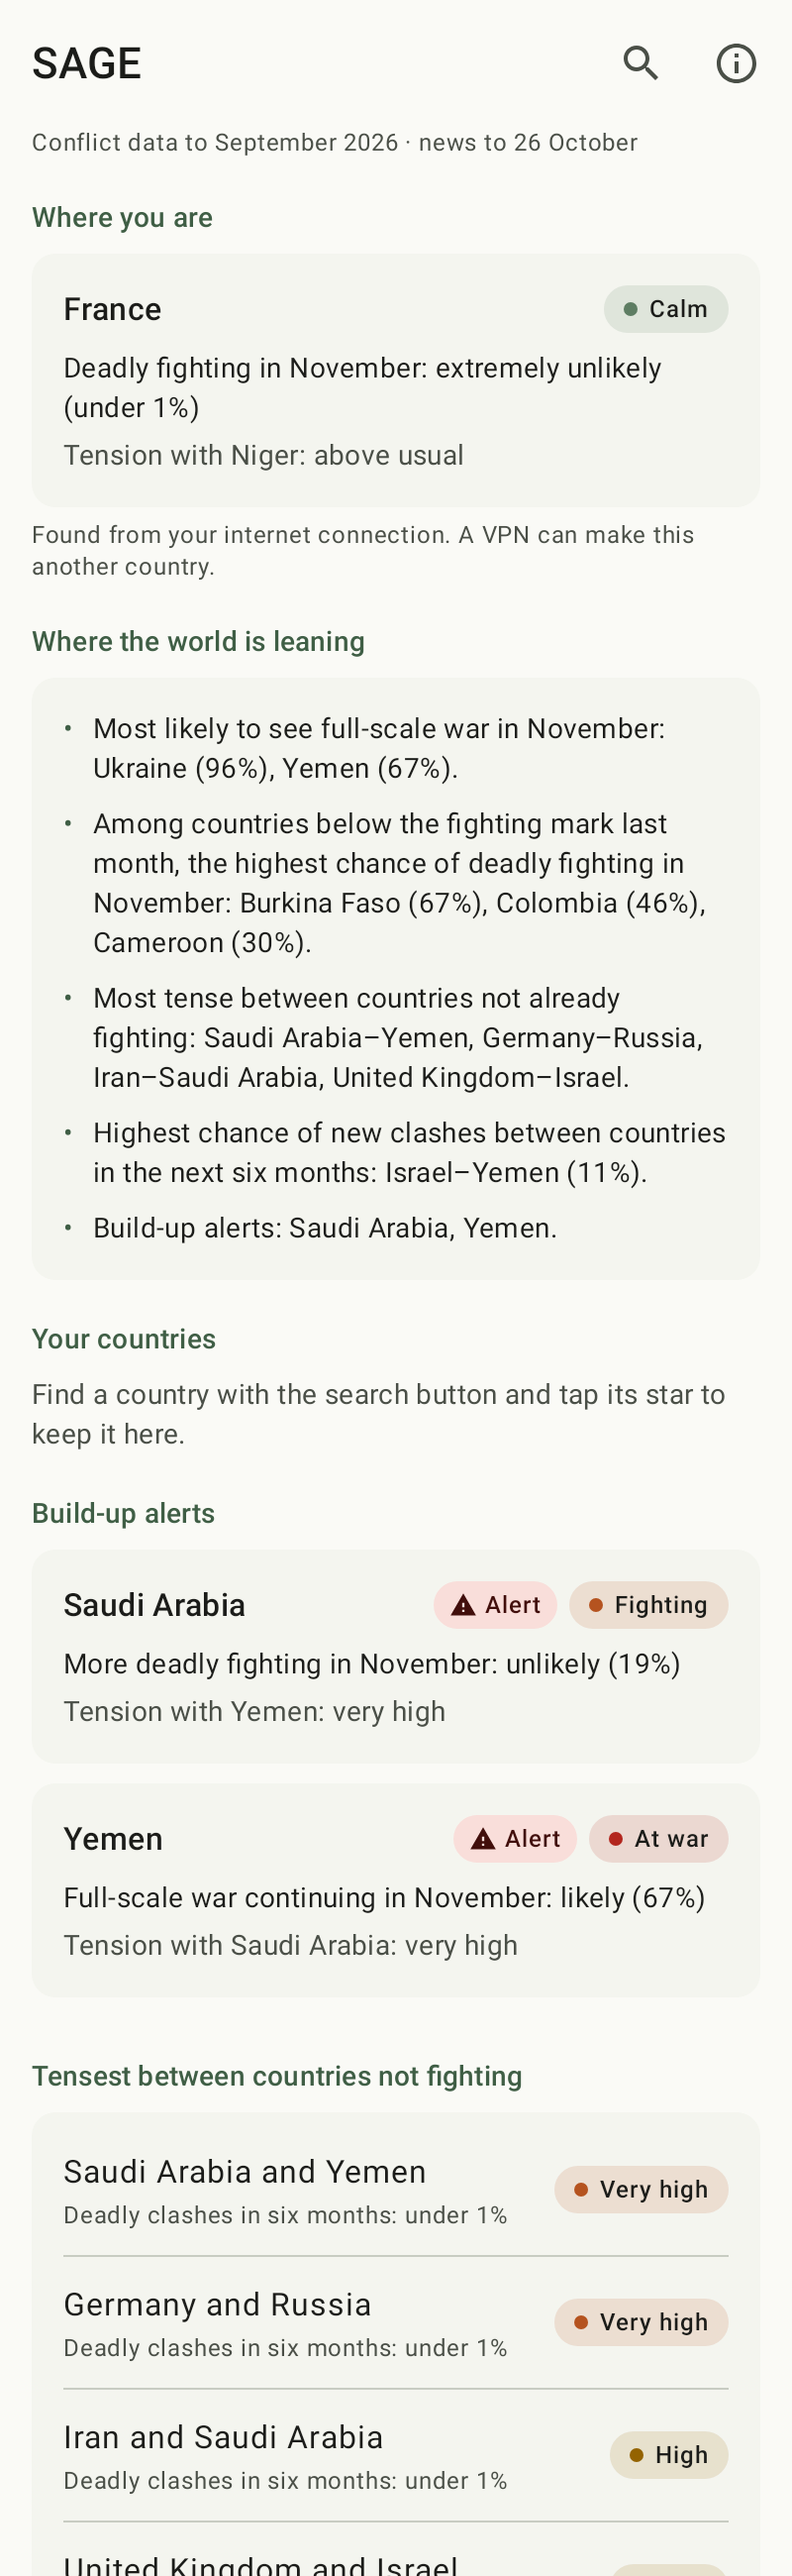
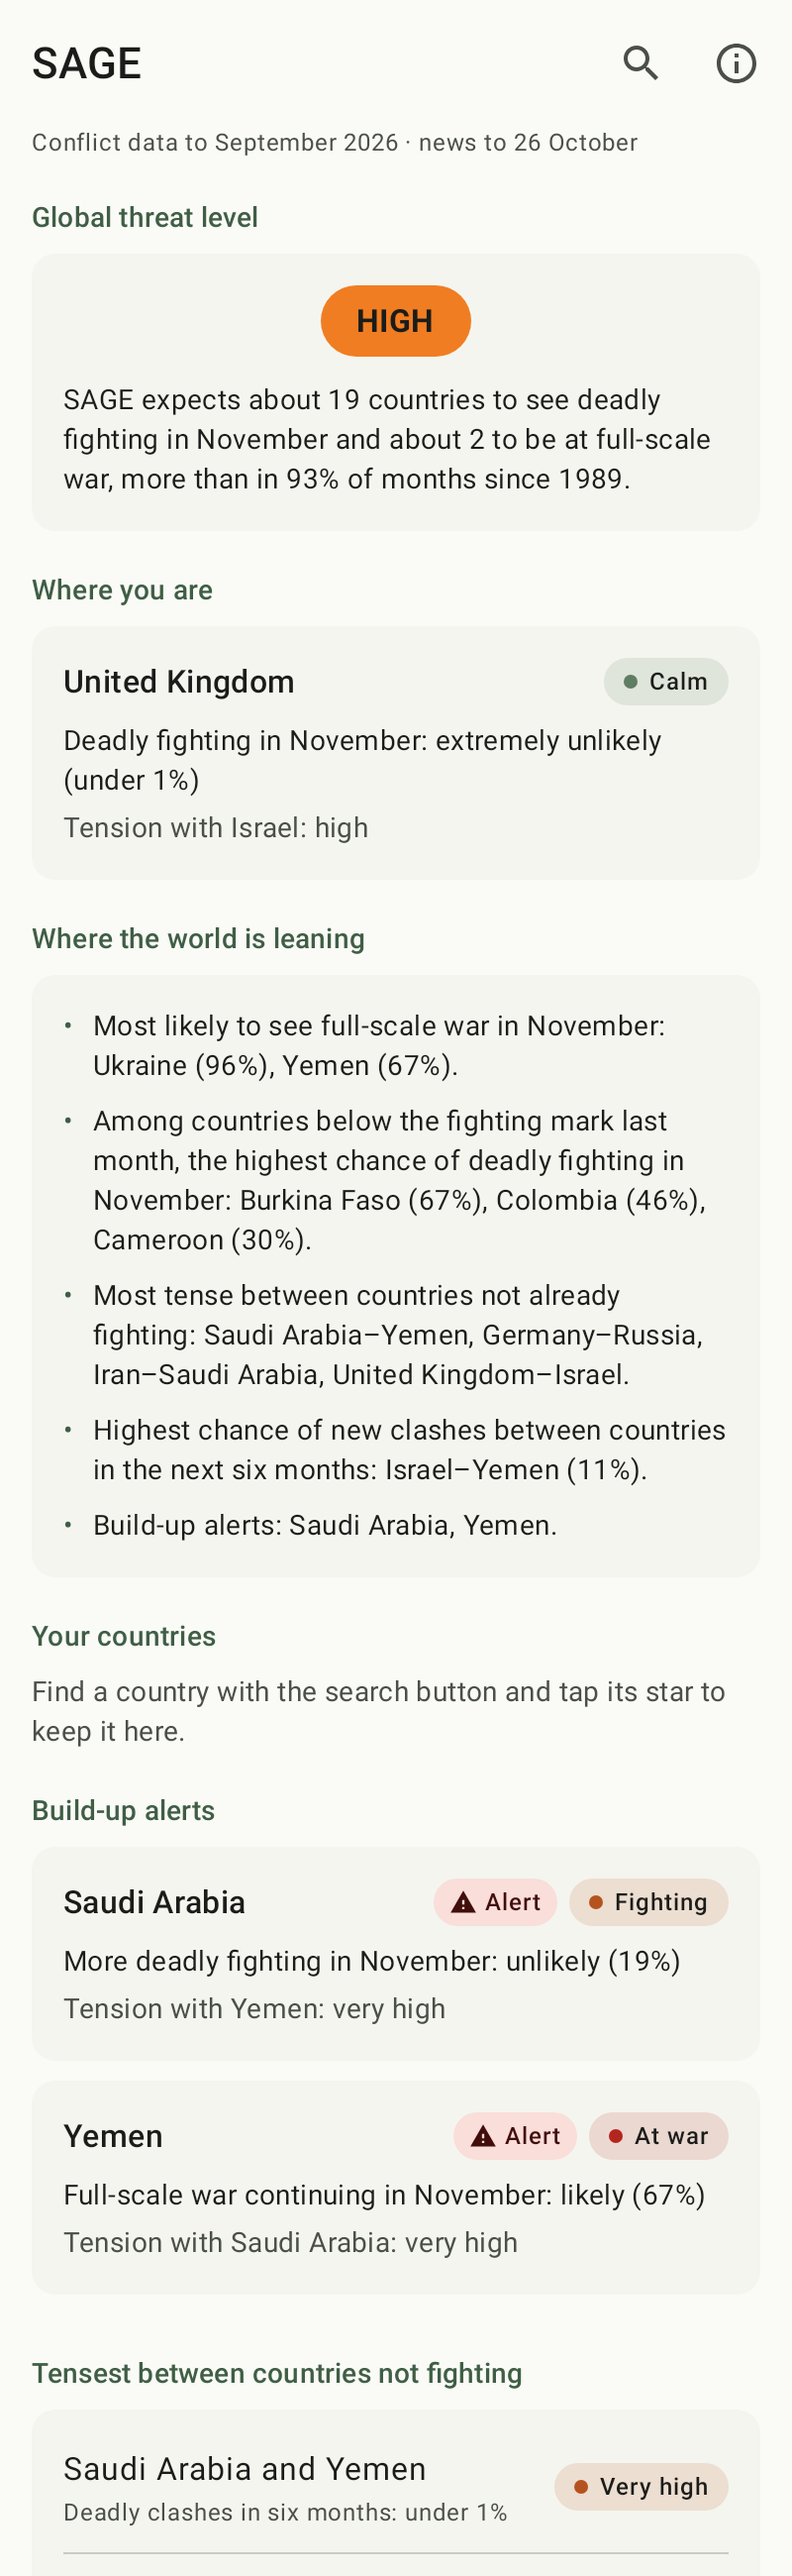
Global threat level

diff --git a/android/app/src/main/java/com/hostu404/sage/data/Forecast.kt b/android/app/src/main/java/com/hostu404/sage/data/Forecast.kt
@@ -22,6 +22,8 @@ data class Forecast(
     val pairs: List<Relation>,
     /** Each country's ISO code ("FRA"), by id. */
     val iso3: Map<Int, String> = emptyMap(),
+    /** The global threat level, if the file has one. */
+    val world: World? = null,
 ) {
     /** Every country the app can show: those SAGE forecasts, plus those it only follows relations for. */
     val places: List<Place> by lazy {
@@ -72,6 +74,7 @@ data class Forecast(
                 alertRecord = o.optJSONObject("alert_record")?.let(AlertRecord::parse),
                 countries = o.optJSONArray("countries").objects().map(Country::parse),
                 pairs = pairs.objects().map(Relation::parse),
+                world = o.optJSONObject("world")?.let(World::parse),
                 iso3 = o.optJSONObject("iso3")?.let { m ->
                     m.keys().asSequence().mapNotNull { k -> k.toIntOrNull()?.let { it to m.optString(k) } }.toMap()
                 } ?: emptyMap(),
@@ -81,6 +84,34 @@ data class Forecast(
 }
 
 data class Question(val title: String, val text: String)
+
+/**
+ * How dangerous next month looks for the world as a whole: SAGE's expected
+ * number of countries with deadly fighting and at war, against every month
+ * since 1989. [score] is the share of those months that were calmer.
+ */
+data class World(
+    val level: String,
+    /** 0 = Low ... 4 = Severe. */
+    val rank: Int,
+    val score: Double,
+    val expectedFighting: Double,
+    val expectedWars: Double,
+    val text: String,
+) {
+    companion object {
+        val LEVELS = listOf("Low", "Guarded", "Elevated", "High", "Severe")
+
+        fun parse(o: JSONObject) = World(
+            level = o.optString("level"),
+            rank = o.optInt("rank").coerceIn(0, LEVELS.lastIndex),
+            score = o.optDouble("score", 0.0),
+            expectedFighting = o.optDouble("expected_fighting", 0.0),
+            expectedWars = o.optDouble("expected_wars", 0.0),
+            text = o.optString("text"),
+        )
+    }
+}
 
 data class Place(val id: Int, val name: String, val country: Country?)
 

diff --git a/android/app/src/main/java/com/hostu404/sage/ui/ThreatLevel.kt b/android/app/src/main/java/com/hostu404/sage/ui/ThreatLevel.kt
@@ -1,0 +1,34 @@
+package com.hostu404.sage.ui
+
+import androidx.compose.foundation.shape.RoundedCornerShape
+import androidx.compose.foundation.layout.padding
+import androidx.compose.material3.MaterialTheme
+import androidx.compose.material3.Surface
+import androidx.compose.material3.Text
+import androidx.compose.runtime.Composable
+import androidx.compose.ui.Modifier
+import androidx.compose.ui.graphics.Color
+import androidx.compose.ui.semantics.contentDescription
+import androidx.compose.ui.semantics.semantics
+import androidx.compose.ui.text.font.FontWeight
+import androidx.compose.ui.unit.dp
+import com.hostu404.sage.data.World
+
+/** The five levels in the colours of the old US threat advisory: green, blue, yellow, orange, red. */
+val THREAT_COLORS = listOf(
+    Color(0xFF3B9C46), Color(0xFF2F6CC9), Color(0xFFF2C12E), Color(0xFFF07D22), Color(0xFFD22B2B),
+)
+
+/** Text that reads on each level's colour. */
+private val ON_THREAT = listOf(Color.White, Color.White, Color(0xFF1B1C19), Color(0xFF1B1C19), Color.White)
+
+/** The level, in capitals, on its colour. */
+@Composable
+fun ThreatLevel(w: World, modifier: Modifier = Modifier) {
+    Surface(shape = RoundedCornerShape(50), color = THREAT_COLORS[w.rank],
+        modifier = modifier.semantics { contentDescription = "Global threat level: ${w.level}" }) {
+        Text(w.level.uppercase(), color = ON_THREAT[w.rank], fontWeight = FontWeight.Bold,
+            style = MaterialTheme.typography.titleMedium,
+            modifier = Modifier.padding(horizontal = 18.dp, vertical = 6.dp))
+    }
+}

diff --git a/android/app/src/test/java/com/hostu404/sage/ForecastTest.kt b/android/app/src/test/java/com/hostu404/sage/ForecastTest.kt
@@ -55,6 +55,13 @@ class ForecastTest {
         assertNull(WhereYouAre.parse("<html>blocked</html>"))
     }
 
+    @Test fun readsTheGlobalThreatLevel() {
+        val w = bundledForecast().world!!
+        assertEquals("High", w.level)
+        assertEquals(3, w.rank)
+        assertTrue(w.text.startsWith("Global threat level: High."))
+    }
+
     @Test fun relationsComeTensestFirst() {
         val f = bundledForecast()
         val order = f.relationsOf(365).map { Tension.order(it.tension) }
@@ -97,6 +104,14 @@ class ChangesTest {
 
     private fun relation(tension: String) =
         Relation(200, 365, listOf("United Kingdom", "Russia"), tension, 0.003, 0.001, null, "")
+
+    @Test fun theGlobalThreatLevelRisingIsNews() {
+        fun level(rank: Int, name: String) = com.hostu404.sage.data.World(name, rank, 0.5, 15.0, 1.0, "Global threat level: $name.")
+        val old = forecast(emptyList()).copy(world = level(2, "Elevated"))
+        val new = forecast(emptyList()).copy(world = level(3, "High"))
+        assertEquals(listOf("Global threat level up: High"), Changes.between(old, new, emptySet()).map { it.title })
+        assertTrue(Changes.between(new, old, emptySet()).isEmpty())
+    }
 
     @Test fun anAlertStartingIsNews() {
         val notices = Changes.between(forecast(listOf(country(1, "Yemen", 0.3))),

diff --git a/android/app/src/main/java/com/hostu404/sage/ui/HomeScreen.kt b/android/app/src/main/java/com/hostu404/sage/ui/HomeScreen.kt
@@ -63,6 +63,16 @@ fun HomeScreen(model: SageModel, f: Forecast) {
                 bottom = pad.calculateBottomPadding() + 8.dp),
         ) {
             item { Freshness(model, f) }
+            f.world?.let { w ->
+                item {
+                    SectionTitle("Global threat level")
+                    SageCard {
+                        ThreatLevel(w, Modifier.align(Alignment.CenterHorizontally))
+                        Text(w.text.removePrefix("Global threat level: ${w.level}. "),
+                            style = MaterialTheme.typography.bodyMedium, modifier = Modifier.padding(top = 12.dp))
+                    }
+                }
+            }
             if (model.changes.isNotEmpty()) item {
                 SectionTitle("Since you last looked")
                 SageCard {
@@ -85,7 +95,8 @@ fun HomeScreen(model: SageModel, f: Forecast) {
             }
             item {
                 SectionTitle("Where the world is leaning")
-                SageCard { Bullets(f.summary) }
+                // The threat level has its own card above.
+                SageCard { Bullets(f.summary.filterNot { it.startsWith("Global threat level") }) }
             }
             item { SectionTitle("Your countries") }
             if (followed.isEmpty()) item {

diff --git a/android/app/src/main/java/com/hostu404/sage/data/Changes.kt b/android/app/src/main/java/com/hostu404/sage/data/Changes.kt
@@ -13,8 +13,16 @@ object Changes {
     const val WORTH_TELLING = 0.05
     private val WATCHED = listOf("fighting", "major_war")
 
+    /** Notices about the whole world rather than one country carry this id. */
+    const val WORLD = -1
+
     fun between(old: Forecast, new: Forecast, followed: Set<Int>): List<Notice> {
         val notices = mutableListOf<Notice>()
+        val worldWas = old.world
+        val worldNow = new.world
+        if (worldWas != null && worldNow != null && worldNow.rank > worldWas.rank) {
+            notices += Notice(WORLD, "Global threat level up: ${worldNow.level}", "It was ${worldWas.level}. ${worldNow.text}")
+        }
         for (id in followed) {
             val before = old.countries.firstOrNull { it.id == id }
             val now = new.countries.firstOrNull { it.id == id }

diff --git a/sage/world.py b/sage/world.py
@@ -1,0 +1,71 @@
+"""The global threat level: how dangerous next month looks for the world
+as a whole, against every month since 1989.
+
+Adding up SAGE's chances across countries gives how many it expects to
+see deadly fighting next month, and how many to be at full-scale war.
+Each is compared with how many actually did in every month on record;
+the level is the average of the two shares of months that were calmer.
+"""
+
+from __future__ import annotations
+
+import pandas as pd
+
+from .features import QUESTIONS
+
+# (level, below this share of calmer months)
+LEVELS = [("Low", 0.20), ("Guarded", 0.50), ("Elevated", 0.80), ("High", 0.95), ("Severe", float("inf"))]
+NEXT = 1  # index of "next month" in the three forecast months
+
+
+def _calmer(history: pd.Series, value: float) -> float:
+    """Share of months below `value`, counting ties as half."""
+    return float(((history < value).sum() + 0.5 * (history == value).sum()) / len(history))
+
+
+def level_for(score: float) -> tuple[int, str]:
+    for rank, (name, below) in enumerate(LEVELS):
+        if score < below:
+            return rank, name
+    return len(LEVELS) - 1, LEVELS[-1][0]
+
+
+def threat(frame: pd.DataFrame, entries: list[dict], next_month: str, month_word: str) -> dict:
+    """The level, the numbers behind it and a sentence saying what it means.
+    `frame` holds every country-month on record (its "state" deaths);
+    `entries` the forecast for each country."""
+    fighting_q, war_q = QUESTIONS["fighting"], QUESTIONS["major_war"]
+    by_month = frame.groupby("month")["state"]
+    history = pd.DataFrame({
+        "fighting": by_month.apply(lambda s: int((s >= fighting_q.threshold).sum())),
+        "wars": by_month.apply(lambda s: int((s >= war_q.threshold).sum())),
+    })
+    expected_fighting = sum(e["fighting"]["chance"][NEXT] for e in entries)
+    expected_wars = sum(e["major_war"]["chance"][NEXT] for e in entries)
+    score = (_calmer(history["fighting"], expected_fighting) + _calmer(history["wars"], expected_wars)) / 2
+    rank, name = level_for(score)
+    last = history.iloc[-1]
+    alerts = [e["name"] for e in entries if (e.get("alert") or {}).get("on")]
+
+    wars = round(expected_wars)
+    war_words = "none to be at full-scale war" if wars == 0 else (
+        f"about {wars} to be at full-scale war" if wars > 1 else "about one to be at full-scale war")
+    text = (f"Global threat level: {name}. SAGE expects about {round(expected_fighting)} countries to see "
+            f"deadly fighting in {month_word} and {war_words}, ")
+    if score >= 0.5:
+        text += f"more than in {score:.0%} of months since {history.index[0][:4]}."
+    else:
+        text += f"fewer than in {1 - score:.0%} of months since {history.index[0][:4]}."
+    return {
+        "level": name,
+        "rank": rank,
+        "levels": [n for n, _ in LEVELS],
+        "score": round(score, 3),
+        "month": next_month,
+        "expected_fighting": round(expected_fighting, 1),
+        "expected_wars": round(expected_wars, 1),
+        "last_month": {"month": str(history.index[-1]), "fighting": int(last["fighting"]), "wars": int(last["wars"])},
+        "since": str(history.index[0]),
+        "alerts": len(alerts),
+        "text": text,
+    }

diff --git a/tests/test_forecast.py b/tests/test_forecast.py
@@ -41,3 +41,24 @@ def test_every_country_in_the_file_gets_its_iso_code():
     pairs_ = {"pairs": [{"a": 220, "b": 365}]}
     codes = forecast._codes(entries, pairs_, {200: "GBR", 220: "FRA", 345: "SRB", 365: "RUS", 2: "USA"})
     assert codes == {"200": "GBR", "220": "FRA", "345": "SRB", "365": "RUS"}
+
+
+def test_the_global_threat_level_compares_next_month_with_every_month_on_record():
+    import pandas as pd
+    from sage import world
+    # Ten months on record: 2 countries fighting in each, one of them at war in the last two.
+    rows = []
+    for i in range(10):
+        month = f"2000-{i + 1:02d}"
+        rows += [{"month": month, "state": 1500 if i >= 8 else 30}, {"month": month, "state": 40},
+                 {"month": month, "state": 0}]
+    frame = pd.DataFrame(rows)
+    entry = lambda f, w: {"name": "X", "fighting": {"chance": [0, f, 0]}, "major_war": {"chance": [0, w, 0]}}
+    calm = world.threat(frame, [entry(0.3, 0.0), entry(0.2, 0.0)], "2000-12", "December")
+    # Fewer fighting than any month (0 calmer), and no war like 8 of 10 months (ties count half: 0.4).
+    assert calm["score"] == 0.2 and calm["level"] == "Guarded" and calm["expected_fighting"] == 0.5
+    tense = world.threat(frame, [entry(0.99, 0.9), entry(0.99, 0.6), entry(0.9, 0.2)], "2000-12", "December")
+    assert tense["level"] == "Severe" and tense["rank"] == 4
+    assert tense["text"].startswith("Global threat level: Severe. SAGE expects about 3 countries to see deadly "
+                                    "fighting in December and about 2 to be at full-scale war, more than in")
+    assert world.level_for(0.5) == (2, "Elevated") and world.level_for(0.949) == (3, "High")

diff --git a/sage/forecast.py b/sage/forecast.py
@@ -14,7 +14,7 @@ from pathlib import Path
 import numpy as np
 import pandas as pd
 
-from . import summary, tension
+from . import summary, tension, world
 from .backtest import HORIZONS
 from .features import FIRST_TRAINING_MONTH, NEVER, QUESTIONS, Question, feature_columns, month_index, month_name
 from .gdelt import EARLY_DAYS
@@ -158,12 +158,15 @@ def make(frame: pd.DataFrame, countries: pd.DataFrame, record: dict | None = Non
         out.append(entry)
     out.sort(key=lambda e: e["name"])
 
+    next_month = month_name(last + HORIZONS[world.NEXT])
+    threat = world.threat(frame, out, next_month, pd.Period(next_month, freq="M").strftime("%B"))
     return {
         "generated": datetime.now(timezone.utc).strftime("%Y-%m-%dT%H:%M:%SZ"),
         "data_through": month_name(last),
         "months": [month_name(last + h) for h in HORIZONS],
         "questions": {q.key: {"title": q.title, "text": q.text} for q in QUESTIONS.values()},
-        "summary": summary.world(out, month_name(last), pair_forecasts),
+        "world": threat,
+        "summary": [threat["text"], *summary.world(out, month_name(last), pair_forecasts)],
         "pairs": pair_forecasts,
         "record": record,
         "alert_record": alert_record,

diff --git a/README.md b/README.md
@@ -21,6 +21,19 @@ leaning, for example:
 > (16%). It's leaning worse: deaths are up 37% on the three months before
 > and the news shows fighting at about 7 times the usual level.
 
+## Global threat level
+
+One reading for the whole world, from **Low** through **Guarded**,
+**Elevated** and **High** to **Severe** (the five colours of the old US
+threat advisory: green, blue, yellow, orange, red). SAGE adds up its
+chances to get how many countries it expects to see deadly fighting next
+month, and how many to be at full-scale war, and compares each with every
+month since 1989. The level is the share of those months that were calmer:
+under 20% is Low, under 50% Guarded, under 80% Elevated, under 95% High,
+and 95% or more Severe. In October 2026 it was **High**: about 19 countries
+expected to see deadly fighting and about 2 at full-scale war, more than in
+93% of months since 1989.
+
 ## How good is it?
 
 **Good. On the same countries and months, SAGE beats ViEWS, the leading

diff --git a/android/README.md b/android/README.md
@@ -8,13 +8,16 @@ world is leaning, the countries you follow, build-up alerts, and how tense
 things are between countries. Free, no ads, no accounts.
 
 <p>
-<img src="docs/01-home.png" width="200" alt="Home screen, in France">
+<img src="docs/01-home.png" width="200" alt="Home screen">
 <img src="docs/03-united-kingdom.png" width="200" alt="United Kingdom">
 <img src="docs/05-yemen-alert.png" width="200" alt="Yemen with a build-up alert">
 </p>
 
 ## What it shows
 
+- **Global threat level:** Low, Guarded, Elevated, High or Severe, in its
+  colour, saying how next month compares with every month since 1989 for the
+  world as a whole.
 - **Home:** a few sentences on where the world is leaning, the country you're
   in, the countries you've starred, any build-up alerts, and the tensest pairs
   of countries that aren't fighting.
